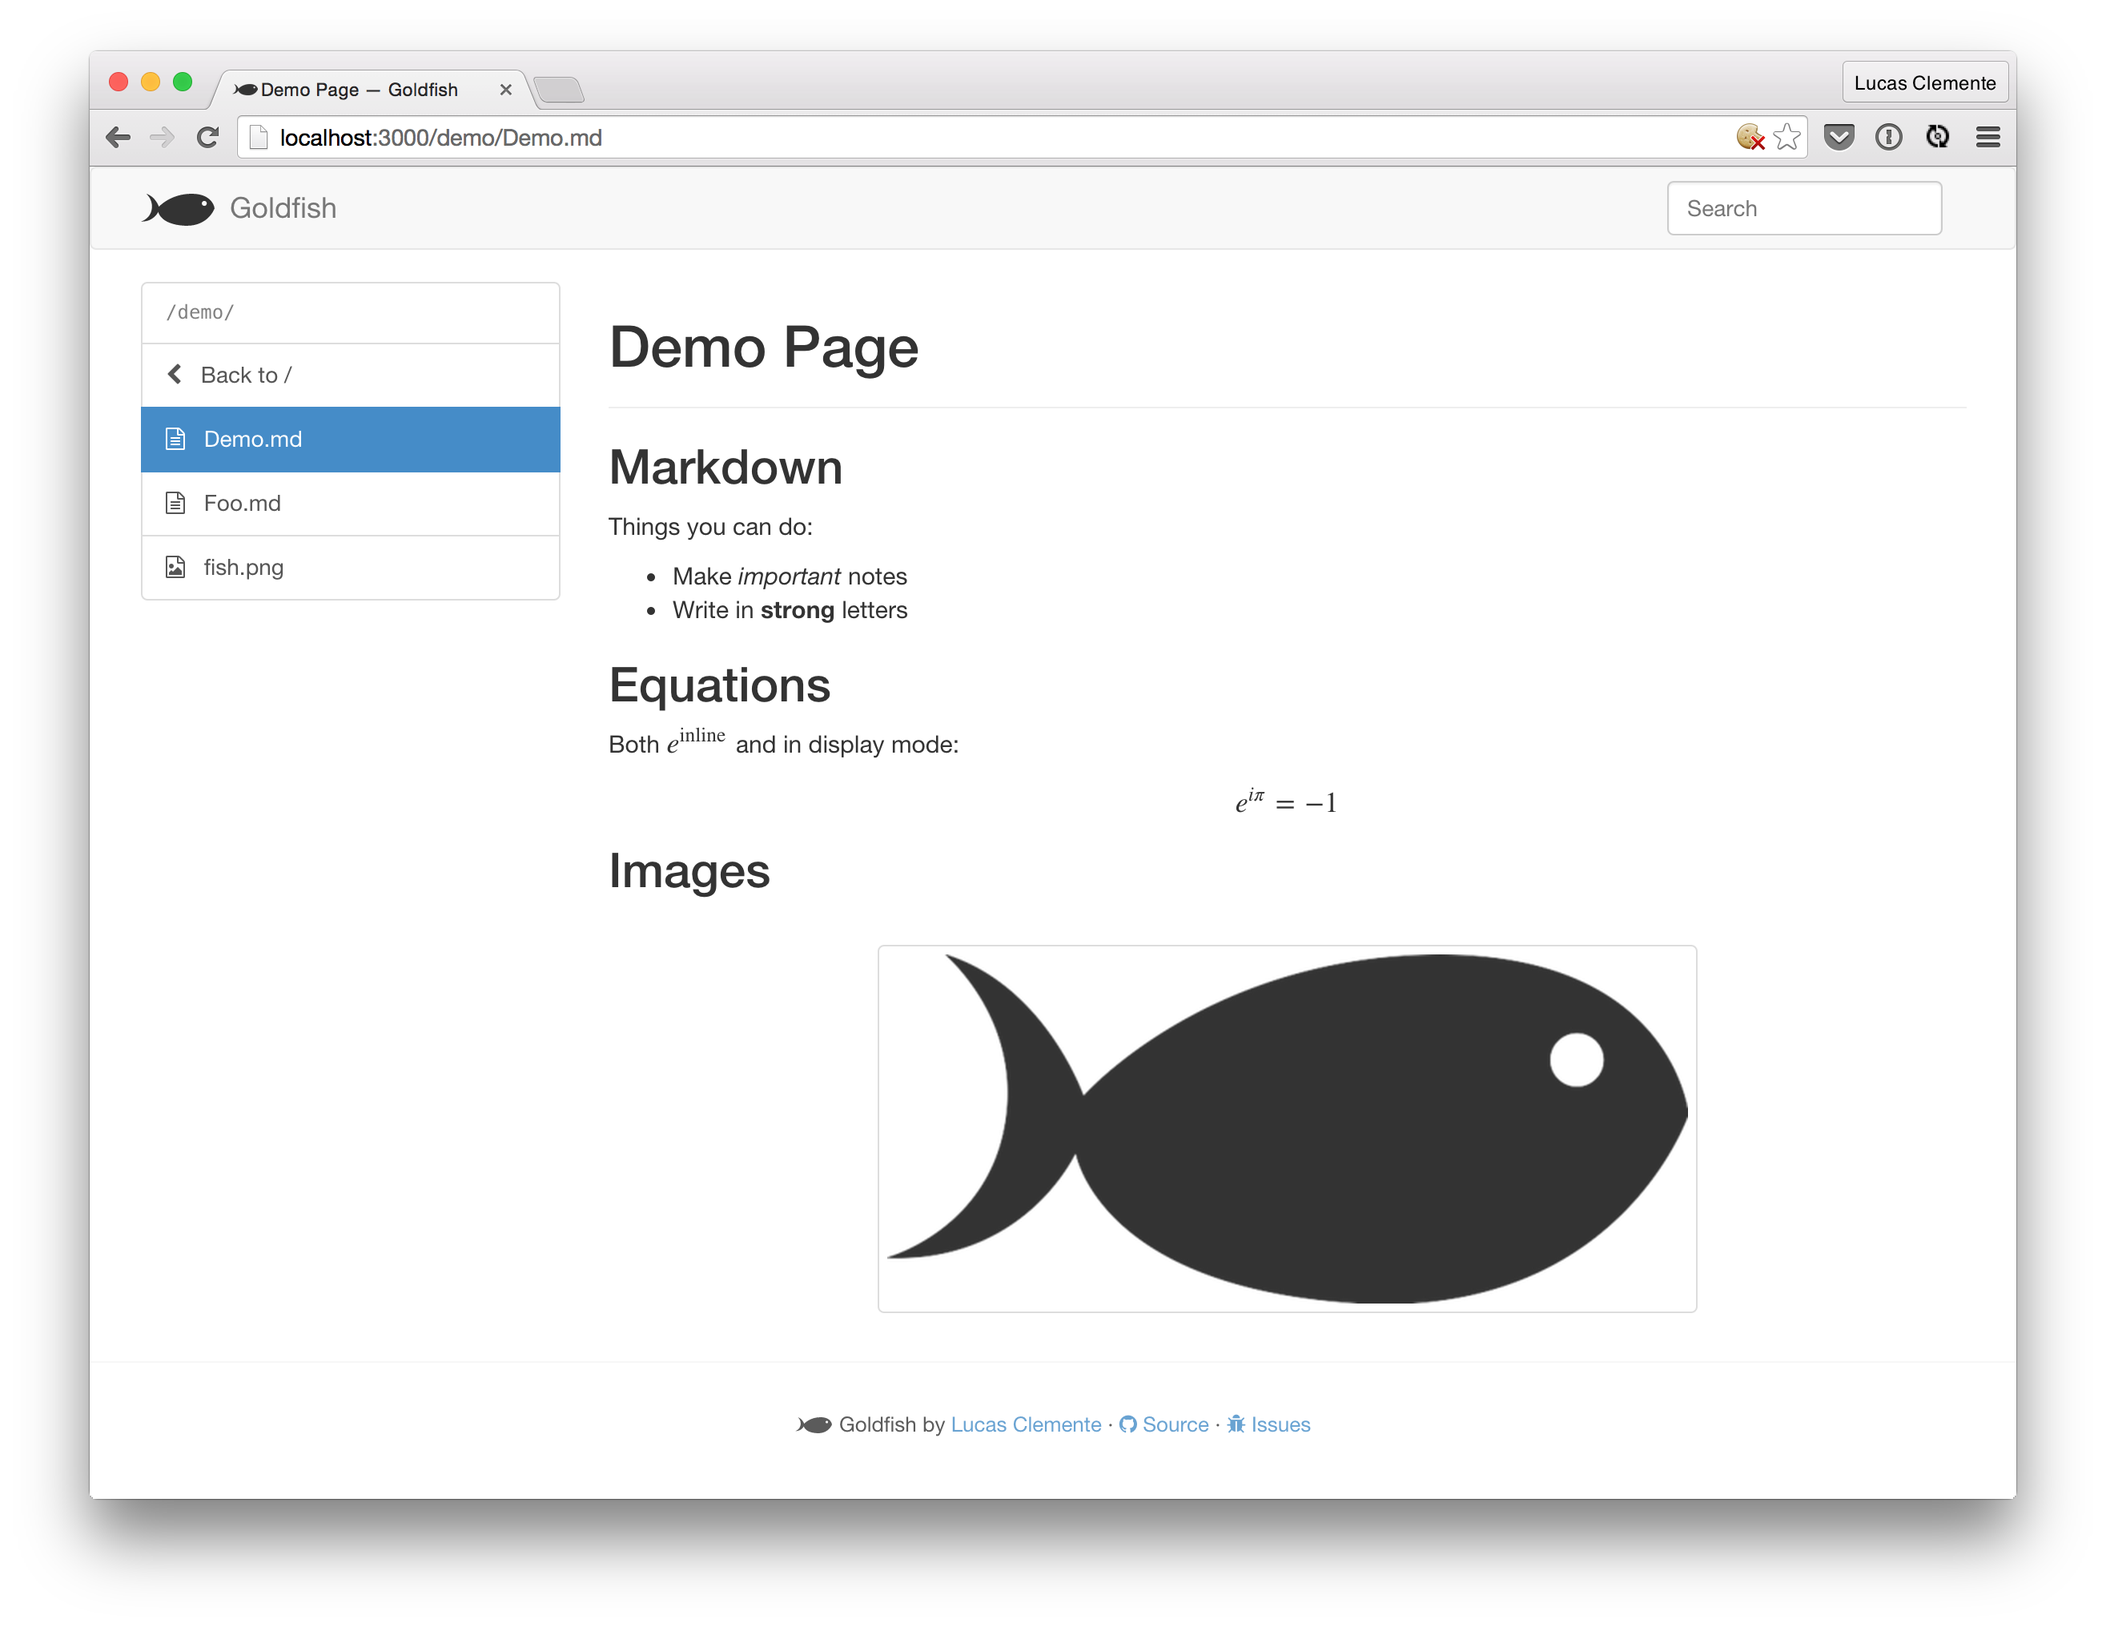
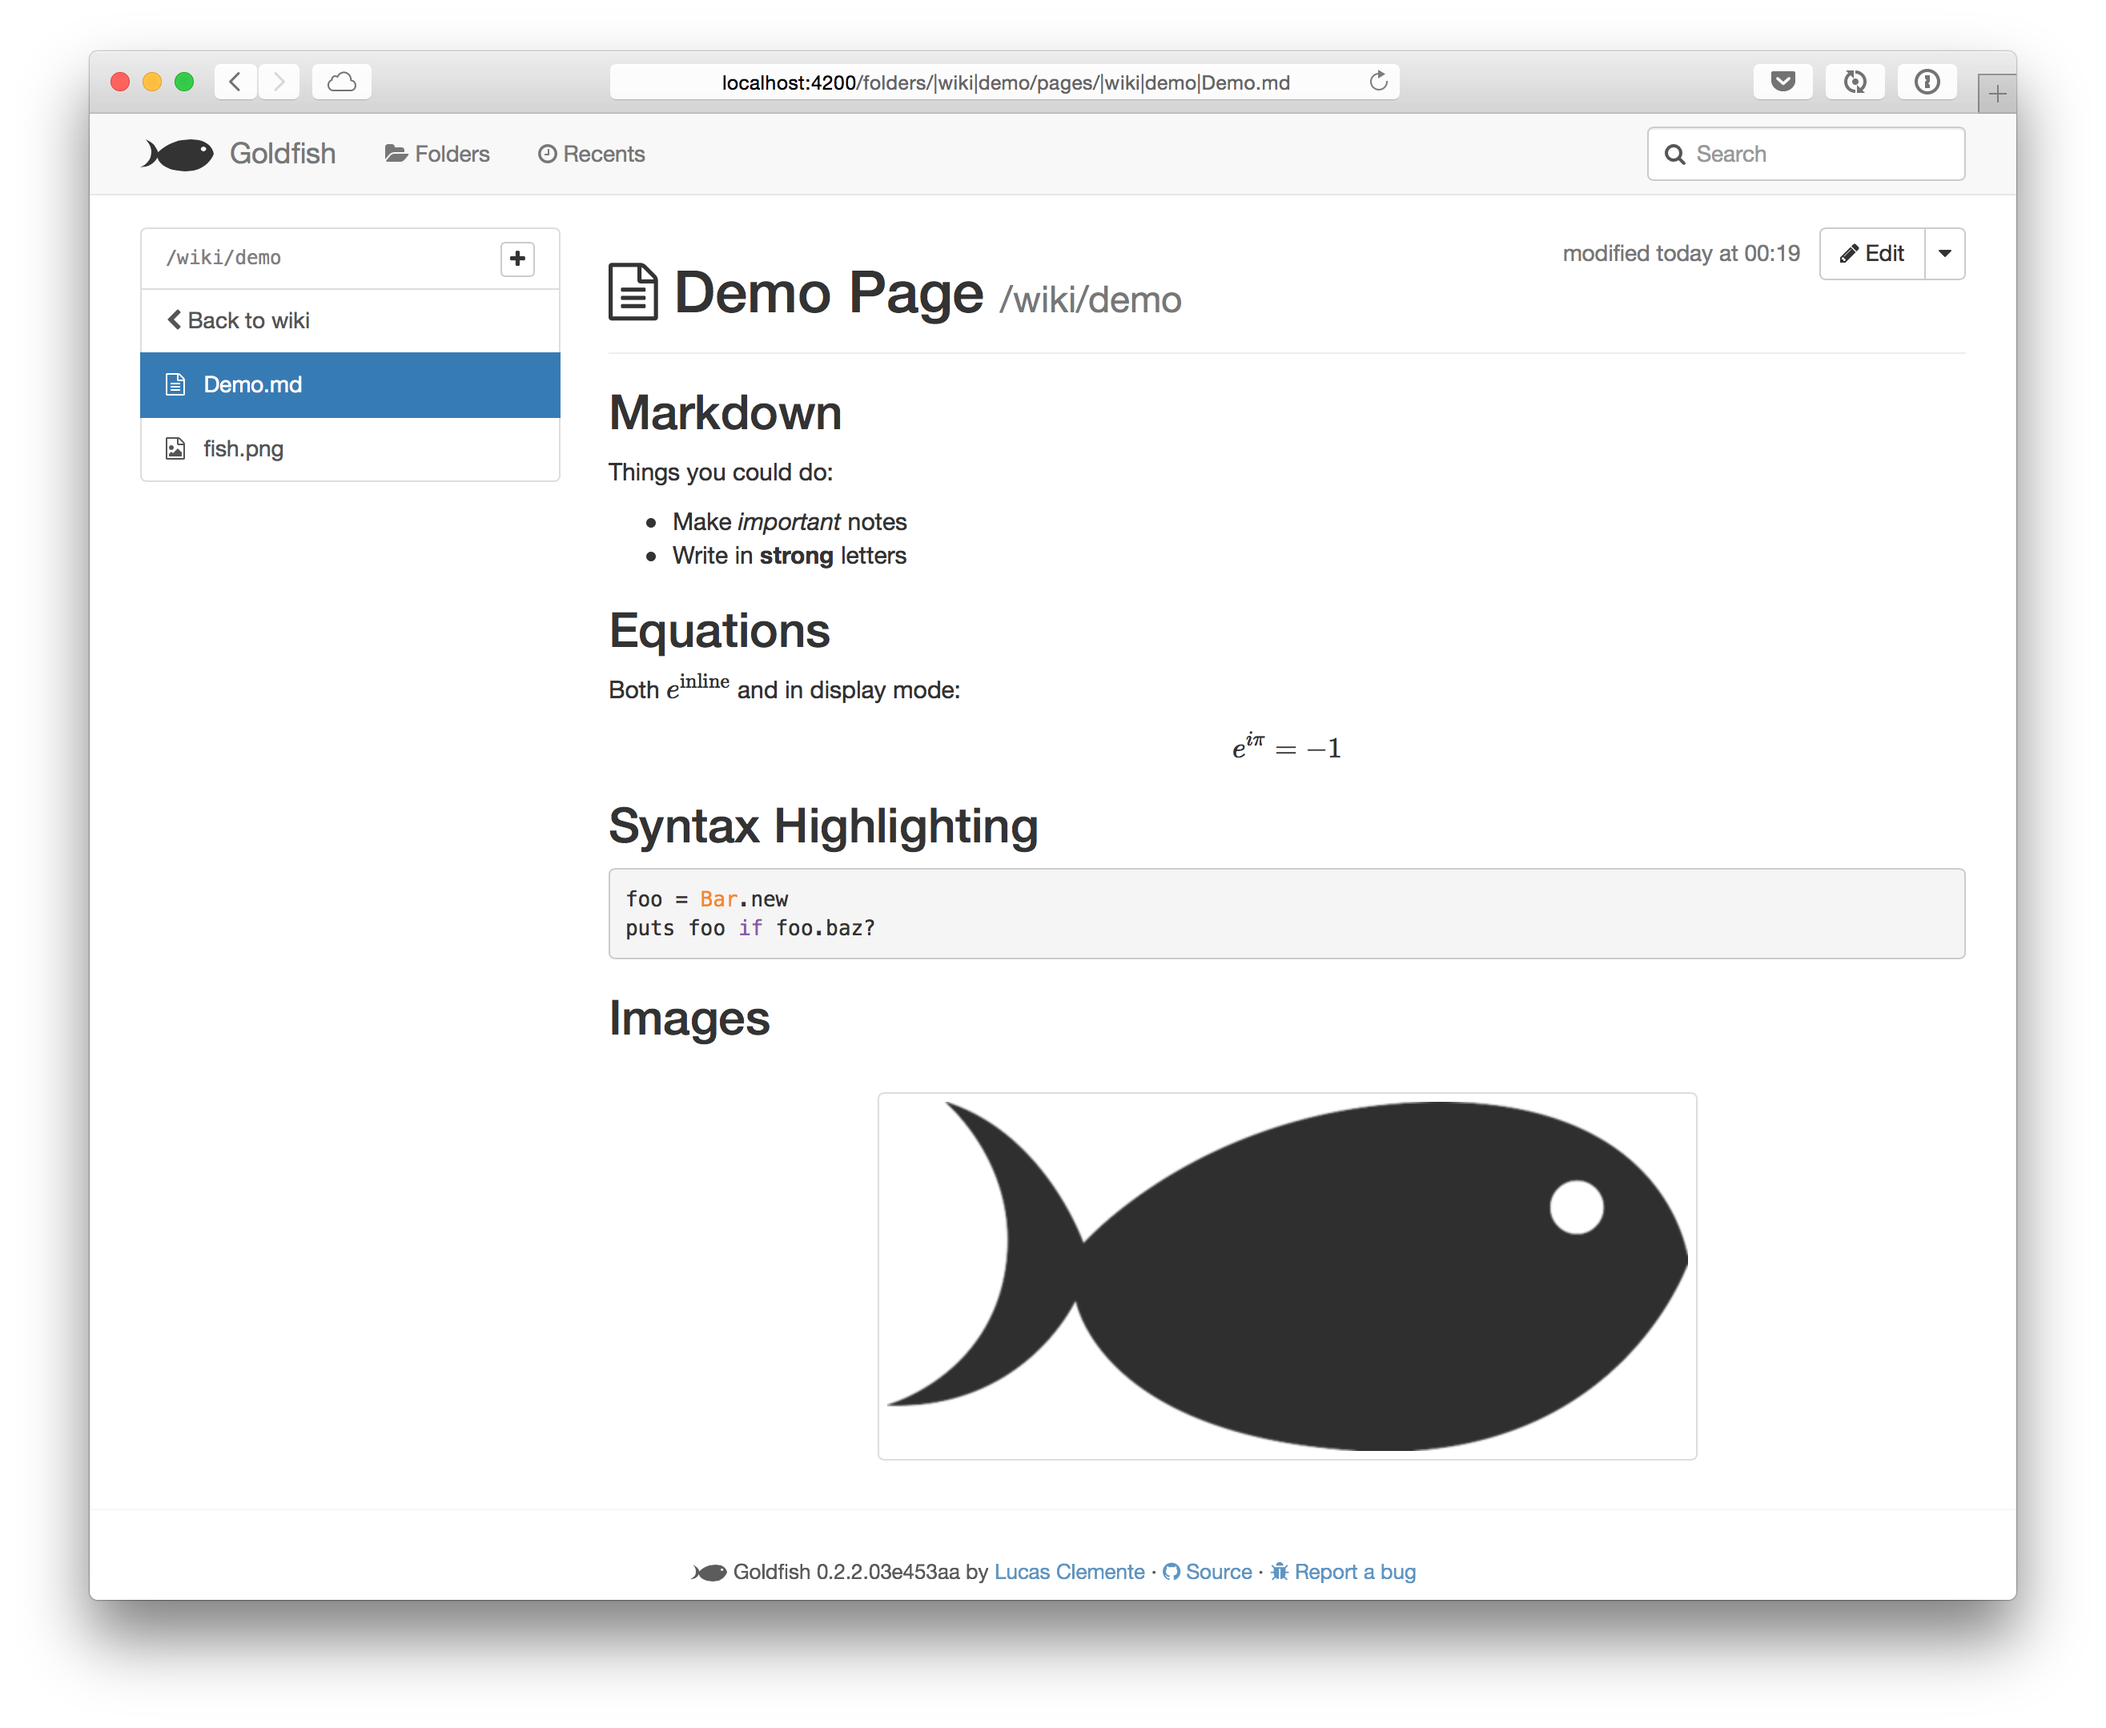
update demo screenshot

diff --git a/README.md b/README.md
@@ -38,26 +38,30 @@ Then open [http://localhost:2345](http://localhost:2345) and start writing those
 
 Code for the page:
 
-```markdown
-# Demo Page
+    # Demo Page
 
-## Markdown
+    ## Markdown
 
-Things you can do:
+    Things you could do:
 
-- Make _important_ notes
-- Write in __strong__ letters
+    - Make _important_ notes
+    - Write in __strong__ letters
 
-## Equations
+    ## Equations
 
-Both $e^\text{inline}$ and in display mode:
+    Both $e^\text{inline}$ and in display mode:
 
-\[
-  e^{i \pi} = -1
-\]
+    \[
+      e^{i \pi} = -1
+    \]
 
-## Images
+    ## Syntax Highlighting
 
-[[fish.png]]
+    ```ruby
+    foo = Bar.new
+    puts foo if foo.baz?
+    ```
 
-```
+    ## Images
+
+    [[fish.png]]
